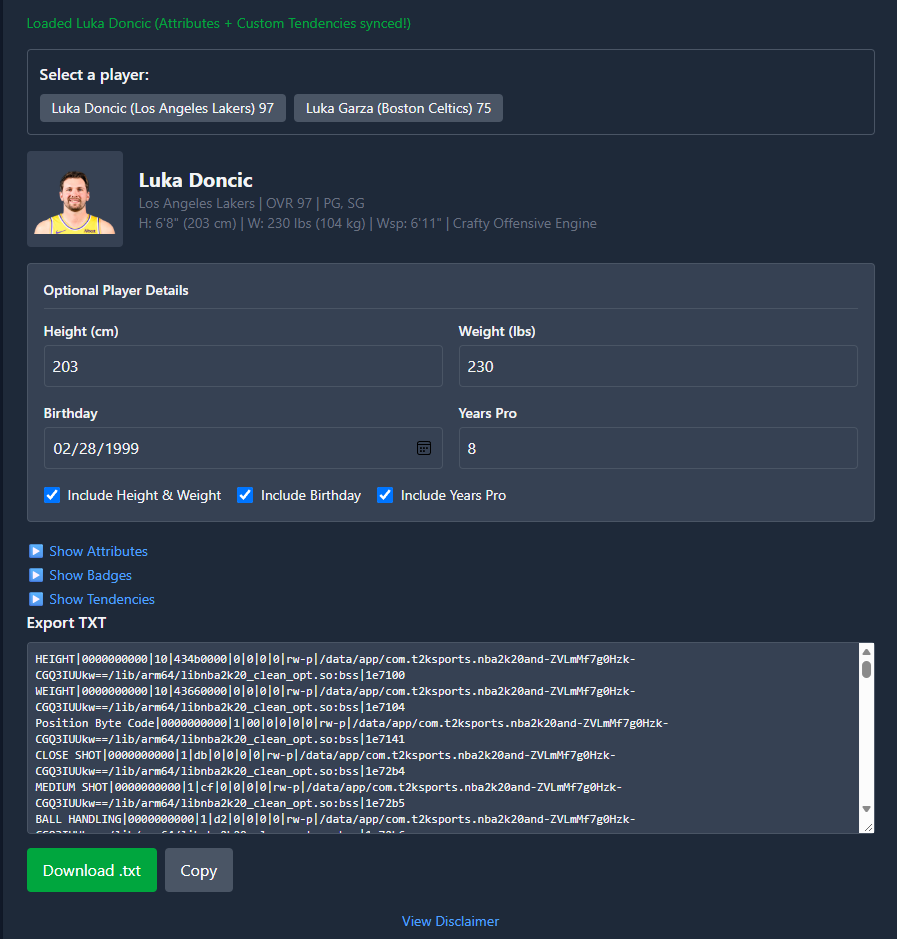
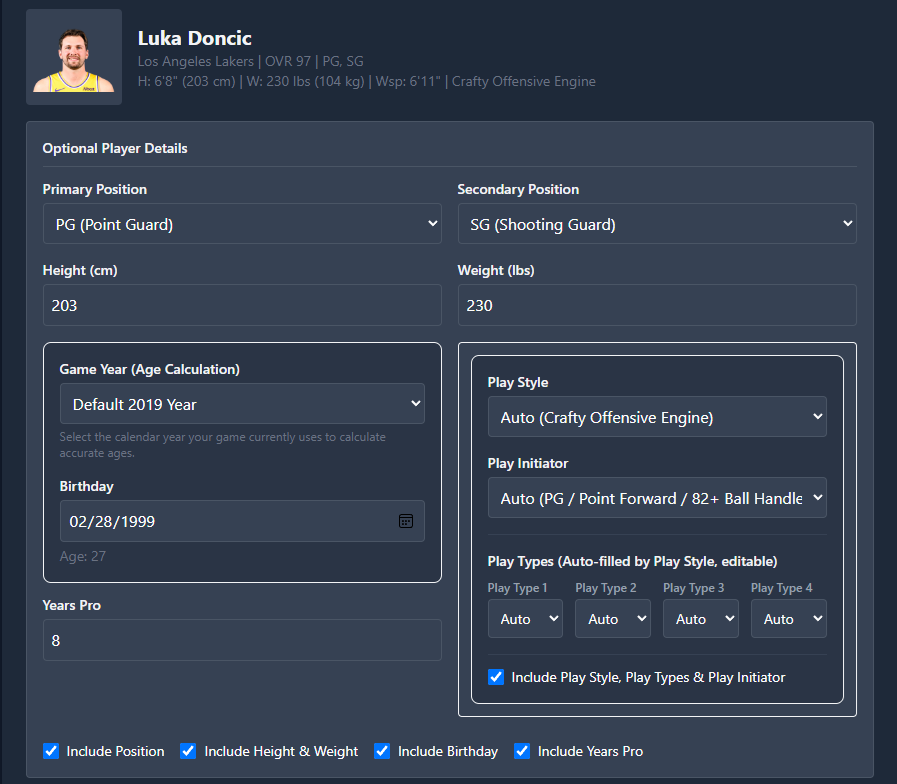
- Removed unused images - Added Play Style in the description - Added new image for Play Style - Improve some text and some images

diff --git a/src/app/app.html b/src/app/app.html
@@ -74,7 +74,7 @@
                 d="M10 18a8 8 0 100-16 8 8 0 000 16zm3.707-9.293a1 1 0 00-1.414-1.414L9 10.586 7.707 9.293a1 1 0 00-1.414 1.414l2 2a1 1 0 001.414 0l4-4z"
                 clip-rule="evenodd" />
             </svg>
-            One-time starter fee. Cancel renewals anytime.
+            One-time starter fee.
           </p>
         </div>
 
@@ -136,7 +136,15 @@
                   d="M10 18a8 8 0 100-16 8 8 0 000 16zm3.707-9.293a1 1 0 00-1.414-1.414L9 10.586 7.707 9.293a1 1 0 00-1.414 1.414l2 2a1 1 0 001.414 0l4-4z"
                   clip-rule="evenodd" />
               </svg>
-              No typos or missed players
+              Complete roster generation.
+            </li>
+            <li class="flex items-center gap-3 text-gray-600 dark:text-gray-400">
+              <svg class="w-5 h-5 text-green-500" fill="currentColor" viewBox="0 0 20 20">
+                <path fill-rule="evenodd"
+                  d="M10 18a8 8 0 100-16 8 8 0 000 16zm3.707-9.293a1 1 0 00-1.414-1.414L9 10.586 7.707 9.293a1 1 0 00-1.414 1.414l2 2a1 1 0 001.414 0l4-4z"
+                  clip-rule="evenodd" />
+              </svg>
+              Updates every player in the team including Attributes, Badges, Tendencies, and more!
             </li>
           </ul>
         </div>
@@ -155,8 +163,8 @@
           </div>
           <h3 class="text-3xl font-bold mb-4">Real Stats, Real Tendencies</h3>
           <p class="text-lg text-gray-600 dark:text-gray-300 mb-6 leading-relaxed">
-            Why settle for generic 50s? We fetch live NBA stats to accurately calculate Shot Tendencies, Drive
-            frequencies, and Post moves. Even rookies get custom, height-and-weight-adjusted fallback math.
+            Why settle for generic tendencies? We fetch live NBA stats to accurately calculate Shot Tendencies, Drive
+            frequencies, and Post moves. Even rookies get custom tendencies based on special calculation.
           </p>
           <ul class="space-y-3">
             <li class="flex items-center gap-3 text-gray-600 dark:text-gray-400">
@@ -165,7 +173,7 @@
                   d="M10 18a8 8 0 100-16 8 8 0 000 16zm3.707-9.293a1 1 0 00-1.414-1.414L9 10.586 7.707 9.293a1 1 0 00-1.414 1.414l2 2a1 1 0 001.414 0l4-4z"
                   clip-rule="evenodd" />
               </svg>
-              Accurate three-point volume
+              Live stat-to-tendency conversion
             </li>
             <li class="flex items-center gap-3 text-gray-600 dark:text-gray-400">
               <svg class="w-5 h-5 text-green-500" fill="currentColor" viewBox="0 0 20 20">
@@ -173,7 +181,23 @@
                   d="M10 18a8 8 0 100-16 8 8 0 000 16zm3.707-9.293a1 1 0 00-1.414-1.414L9 10.586 7.707 9.293a1 1 0 00-1.414 1.414l2 2a1 1 0 001.414 0l4-4z"
                   clip-rule="evenodd" />
               </svg>
-              Playstyle-matching badges
+              Auto-calculated from real-world stats — no manual guessing.
+            </li>
+            <li class="flex items-center gap-3 text-gray-600 dark:text-gray-400">
+              <svg class="w-5 h-5 text-green-500" fill="currentColor" viewBox="0 0 20 20">
+                <path fill-rule="evenodd"
+                  d="M10 18a8 8 0 100-16 8 8 0 000 16zm3.707-9.293a1 1 0 00-1.414-1.414L9 10.586 7.707 9.293a1 1 0 00-1.414 1.414l2 2a1 1 0 001.414 0l4-4z"
+                  clip-rule="evenodd" />
+              </svg>
+              Shot, drive & post frequencies from real NBA play-by-play data.
+            </li>
+            <li class="flex items-center gap-3 text-gray-600 dark:text-gray-400">
+              <svg class="w-5 h-5 text-green-500" fill="currentColor" viewBox="0 0 20 20">
+                <path fill-rule="evenodd"
+                  d="M10 18a8 8 0 100-16 8 8 0 000 16zm3.707-9.293a1 1 0 00-1.414-1.414L9 10.586 7.707 9.293a1 1 0 00-1.414 1.414l2 2a1 1 0 001.414 0l4-4z"
+                  clip-rule="evenodd" />
+              </svg>
+              Drive-the-lane, post-up & shot-tendency breakdowns.
             </li>
           </ul>
         </div>
@@ -184,6 +208,58 @@
             class="relative bg-white dark:bg-gray-800 p-2 rounded-2xl shadow-xl border border-gray-200 dark:border-gray-700">
             <img src="/images/Untitled5.png" alt="Player Tendencies" class="rounded-xl w-full h-auto object-cover" />
           </div>
+        </div>
+      </div>
+
+      <!-- Feature 1: Team Export -->
+      <div class="grid lg:grid-cols-2 gap-12 lg:gap-20 items-center">
+        <div class="relative">
+          <div class="absolute inset-0 bg-indigo-500 rounded-3xl transform -rotate-2 scale-105 opacity-20 blur-xl">
+          </div>
+          <div
+            class="relative bg-white dark:bg-gray-800 p-2 rounded-2xl shadow-xl border border-gray-200 dark:border-gray-700">
+            <img src="/images/Untitled3.png" alt="Team Roster Export" class="rounded-xl w-full h-auto object-cover" />
+          </div>
+        </div>
+
+        <div>
+          <div
+            class="inline-flex items-center justify-center w-12 h-12 rounded-xl bg-indigo-100 dark:bg-indigo-900/50 mb-6">
+            <svg class="w-6 h-6 text-indigo-600 dark:text-indigo-400" fill="none" stroke="currentColor" viewBox="0 0 24 24">
+              <path stroke-linecap="round" stroke-linejoin="round" stroke-width="2" d="M12 6V4m0 2a2 2 0 100 4m0-4a2 2 0 110 4m-6 8a2 2 0 100-4m0 4a2 2 0 110-4m0 4v2m0-6V4m6 6v10m6-2a2 2 0 100-4m0 4a2 2 0 110-4m0 4v2m0-6V4" />
+            </svg>
+          </div>
+          <h3 class="text-3xl font-bold mb-4">Auto Play Style & Roles</h3>
+          <p class="text-lg text-gray-600 dark:text-gray-300 mb-6 leading-relaxed">
+            Our algorithm automatically assigns the perfect Play Style, Initiator, and all 4 Play Types based on the
+            player's real-world stats and position. No more generic defaults.
+          </p>
+          <ul class="space-y-3">
+            <li class="flex items-center gap-3 text-gray-600 dark:text-gray-400">
+              <svg class="w-5 h-5 text-green-500" fill="currentColor" viewBox="0 0 20 20">
+                <path fill-rule="evenodd"
+                  d="M10 18a8 8 0 100-16 8 8 0 000 16zm3.707-9.293a1 1 0 00-1.414-1.414L9 10.586 7.707 9.293a1 1 0 00-1.414 1.414l2 2a1 1 0 001.414 0l4-4z"
+                  clip-rule="evenodd" />
+              </svg>
+              Auto-fills Play Initiator & Play Types
+            </li>
+            <li class="flex items-center gap-3 text-gray-600 dark:text-gray-400">
+              <svg class="w-5 h-5 text-green-500" fill="currentColor" viewBox="0 0 20 20">
+                <path fill-rule="evenodd"
+                  d="M10 18a8 8 0 100-16 8 8 0 000 16zm3.707-9.293a1 1 0 00-1.414-1.414L9 10.586 7.707 9.293a1 1 0 00-1.414 1.414l2 2a1 1 0 001.414 0l4-4z"
+                  clip-rule="evenodd" />
+              </svg>
+              Playstyle-matching attributes and tendencies
+            </li>
+            <li class="flex items-center gap-3 text-gray-600 dark:text-gray-400">
+              <svg class="w-5 h-5 text-green-500" fill="currentColor" viewBox="0 0 20 20">
+                <path fill-rule="evenodd"
+                  d="M10 18a8 8 0 100-16 8 8 0 000 16zm3.707-9.293a1 1 0 00-1.414-1.414L9 10.586 7.707 9.293a1 1 0 00-1.414 1.414l2 2a1 1 0 001.414 0l4-4z"
+                  clip-rule="evenodd" />
+              </svg>
+              Fully editable overrides for custom builds
+            </li>
+          </ul>
         </div>
       </div>
 
@@ -222,20 +298,18 @@
           </div>
           <h4 class="text-xl font-bold mb-2">Real Player Tendencies</h4>
           <p class="text-gray-600 dark:text-gray-400 text-sm">We pull live stats to generate accurate Shot Tendencies,
-            Drive Tendencies, and more. No generic 40s.</p>
+            Drive Tendencies, and more. No generic tendencies.</p>
         </div>
 
         <div class="bg-gray-50 dark:bg-gray-800 p-8 rounded-2xl border border-gray-100 dark:border-gray-700">
           <div class="w-12 h-12 bg-indigo-100 dark:bg-indigo-900/50 rounded-xl flex items-center justify-center mb-6">
-            <svg class="w-6 h-6 text-indigo-600 dark:text-indigo-400" fill="none" stroke="currentColor"
-              viewBox="0 0 24 24">
-              <path stroke-linecap="round" stroke-linejoin="round" stroke-width="2"
-                d="M12 15v2m-6 4h12a2 2 0 002-2v-6a2 2 0 00-2-2H6a2 2 0 00-2 2v6a2 2 0 002 2zm10-10V7a4 4 0 00-8 0v4h8z" />
+            <svg class="w-6 h-6 text-indigo-600 dark:text-indigo-400" fill="none" stroke="currentColor" viewBox="0 0 24 24">
+              <path stroke-linecap="round" stroke-linejoin="round" stroke-width="2" d="M12 6V4m0 2a2 2 0 100 4m0-4a2 2 0 110 4m-6 8a2 2 0 100-4m0 4a2 2 0 110-4m0 4v2m0-6V4m6 6v10m6-2a2 2 0 100-4m0 4a2 2 0 110-4m0 4v2m0-6V4" />
             </svg>
           </div>
-          <h4 class="text-xl font-bold mb-2">Rookie Fallback Math</h4>
-          <p class="text-gray-600 dark:text-gray-400 text-sm">Even if a rookie has no real stats, our custom algorithm
-            generates realistic tendencies based on position, height and weight.</p>
+          <h4 class="text-xl font-bold mb-2">Auto Playstyle & Play Types</h4>
+          <p class="text-gray-600 dark:text-gray-400 text-sm">The app automatically assigns the perfect Play Style, Play
+            Initiator, and all 4 Play Types based on the player's real-world stats.</p>
         </div>
       </div>
     </div>
@@ -320,11 +394,19 @@
               </svg>
               <span>Attributes & Badges only</span>
             </li>
+            <li class="flex items-start gap-2">
+              <svg class="w-5 h-5 text-green-500 shrink-0 mt-0.5" fill="currentColor" viewBox="0 0 20 20">
+                <path fill-rule="evenodd"
+                  d="M10 18a8 8 0 100-16 8 8 0 000 16zm3.707-9.293a1 1 0 00-1.414-1.414L9 10.586 7.707 9.293a1 1 0 00-1.414 1.414l2 2a1 1 0 001.414 0l4-4z"
+                  clip-rule="evenodd" />
+              </svg>
+              <span class="font-semibold text-gray-900 dark:text-white">Support 2K27 and 2K26 Roster</span>
+            </li>
           </ul>
 
           <!-- Footnote -->
           <p class="text-[11px] text-gray-500 dark:text-gray-400 mb-4 text-left italic">
-            * Does not include Team Roster fetch, Auto-Tendencies, or 2026 Date.
+            * Does not include Unlimited Exports and All-Era.
           </p>
 
           <a href="https://www.facebook.com/drenzawe02" target="_blank"
@@ -369,7 +451,8 @@
                   d="M10 18a8 8 0 100-16 8 8 0 000 16zm3.707-9.293a1 1 0 00-1.414-1.414L9 10.586 7.707 9.293a1 1 0 00-1.414 1.414l2 2a1 1 0 001.414 0l4-4z"
                   clip-rule="evenodd" />
               </svg>
-              <span class="font-semibold text-gray-900 dark:text-white">Auto-Tendencies (Live Stats)</span>
+              <span class="font-semibold text-gray-900 dark:text-white"><strong>Auto-Tendencies</strong> (Live
+                Stats)</span>
             </li>
             <li class="flex items-start gap-2">
               <svg class="w-5 h-5 text-green-500 shrink-0 mt-0.5" fill="currentColor" viewBox="0 0 20 20">
@@ -377,7 +460,8 @@
                   d="M10 18a8 8 0 100-16 8 8 0 000 16zm3.707-9.293a1 1 0 00-1.414-1.414L9 10.586 7.707 9.293a1 1 0 00-1.414 1.414l2 2a1 1 0 001.414 0l4-4z"
                   clip-rule="evenodd" />
               </svg>
-              <span class="font-semibold text-gray-900 dark:text-white">Support 2K27 and 2K26</span>
+              <span class="font-semibold text-gray-900 dark:text-white"><strong>Auto Play Style, Types and
+                  Initation</strong></span>
             </li>
             <li class="flex items-start gap-2">
               <svg class="w-5 h-5 text-green-500 shrink-0 mt-0.5" fill="currentColor" viewBox="0 0 20 20">
@@ -412,7 +496,7 @@
                   d="M5 9V7a5 5 0 0110 0v2a2 2 0 012 2v5a2 2 0 01-2 2H5a2 2 0 01-2-2v-5a2 2 0 012-2zm8-2v2H7V7a3 3 0 016 0z"
                   clip-rule="evenodd" />
               </svg>
-              Renews at ₱100/mo. Cancel anytime.
+              Renews at ₱100/mo.
             </p>
           </div>
         </div>
@@ -462,7 +546,7 @@
 
           <!-- Footnote -->
           <p class="text-[11px] text-gray-500 dark:text-gray-400 mb-4 text-left italic">
-            * Does not include Team Roster fetch, Auto-Tendencies, or 2026 Date.
+            * Does not include Team Roster fetch, Auto-Tendencies, Auto Play Style or 2026 Date Support.
           </p>
 
           <a href="https://www.facebook.com/drenzawe02" target="_blank"
